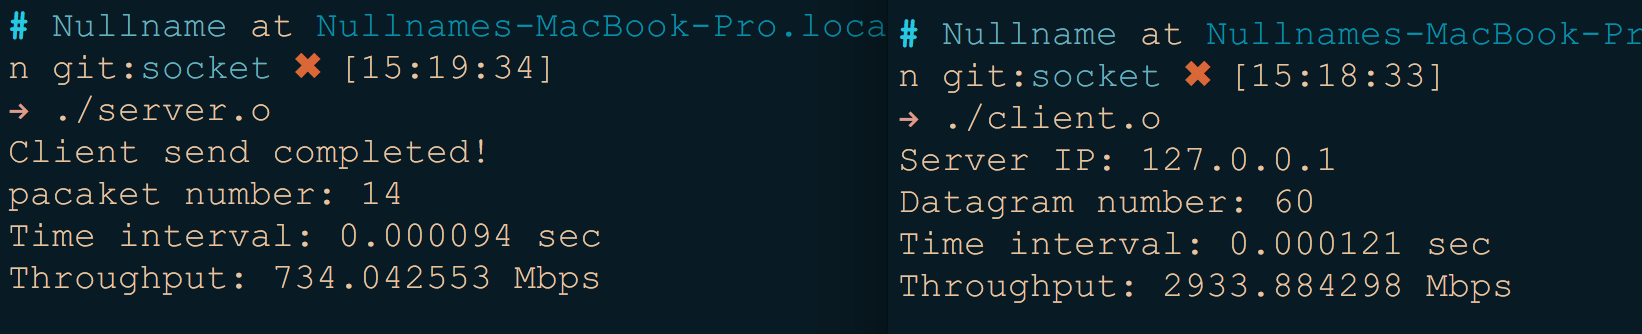
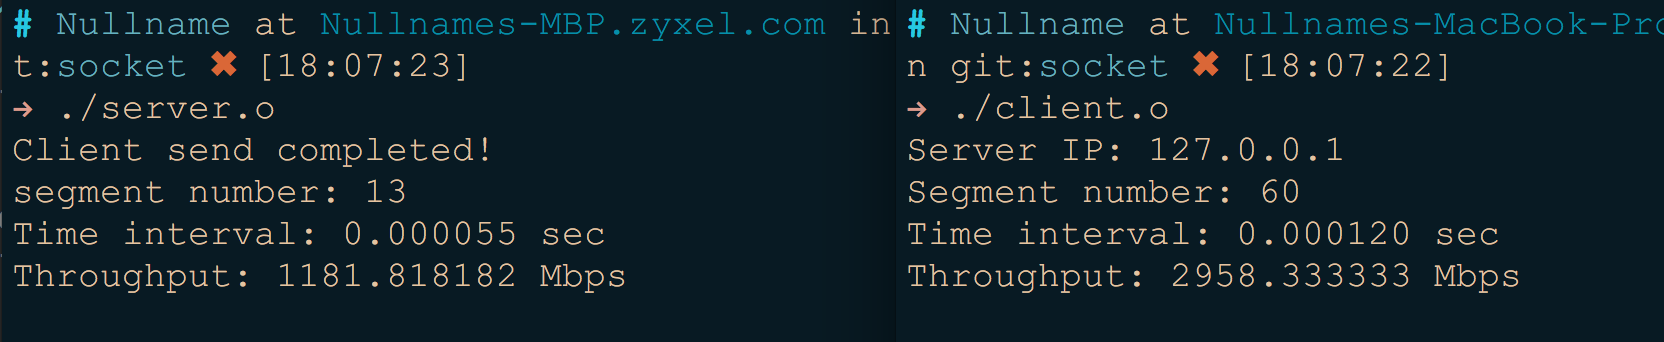
socket is finished.

diff --git a/socket/tcp/server.c b/socket/tcp/server.c
@@ -50,7 +50,7 @@ int main(int argc, char *argv[]) {
             if (buffer[0] == '\0') {
     			t2 = clock();
     			printf("Client send completed!\n");
-    			printf("pacaket number: %d\n", dataframCount);
+    			printf("segment number: %d\n", dataframCount);
     			printf("Time interval: %lf sec\n", (t2-t1)/(double)(CLOCKS_PER_SEC));
     			printf("Throughput: %lf Mbps\n",(sizeCount/((t2-t1)/(double)(CLOCKS_PER_SEC)))/1000);
     			return 0;

diff --git a/socket/tcp/client.c b/socket/tcp/client.c
@@ -42,7 +42,7 @@ int main() {
     sizeCount +=1;
     close(sock);
     printf("Server IP: %s\n", Server_Address);
-    printf("Datagram number: %d\n",outputpacket);
+    printf("Segment number: %d\n",outputpacket);
     printf("Time interval: %lf sec\n", (t2-t1)/(double)(CLOCKS_PER_SEC));
     printf("Throughput: %lf Mbps\n",(sizeCount/((t2-t1)/(double)(CLOCKS_PER_SEC)))/1000);
 

diff --git a/socket/README.md b/socket/README.md
@@ -1,0 +1,43 @@
+# socket
+
+學習使用，在 TCP 及 UDP 協定下的 socket。
+
+## TCP
+
+檔案：[tcp](https://github.com/YanHaoChen/Learning-C/tree/master/socket/tcp)
+
+### 執行方式
+
+```shell
+# 編譯
+$ gcc server.c -o server.o
+$ gcc client.c -o client.0
+
+# 執行
+$ ./server.o
+$ ./client.o
+```
+
+### 執行結果
+
+![](https://github.com/YanHaoChen/Learning-C/blob/master/socket/tcp/result.png?raw=true)
+
+## UDP
+
+檔案：[udp](https://github.com/YanHaoChen/Learning-C/tree/master/socket/udp)
+
+### 執行方式
+
+```shell
+# 編譯
+$ gcc server.c -o server.o
+$ gcc client.c -o client.0
+
+# 執行
+$ ./server.o
+$ ./client.o
+```
+
+### 執行結果
+
+![](https://github.com/YanHaoChen/Learning-C/blob/master/socket/udp/result.png?raw=true)
